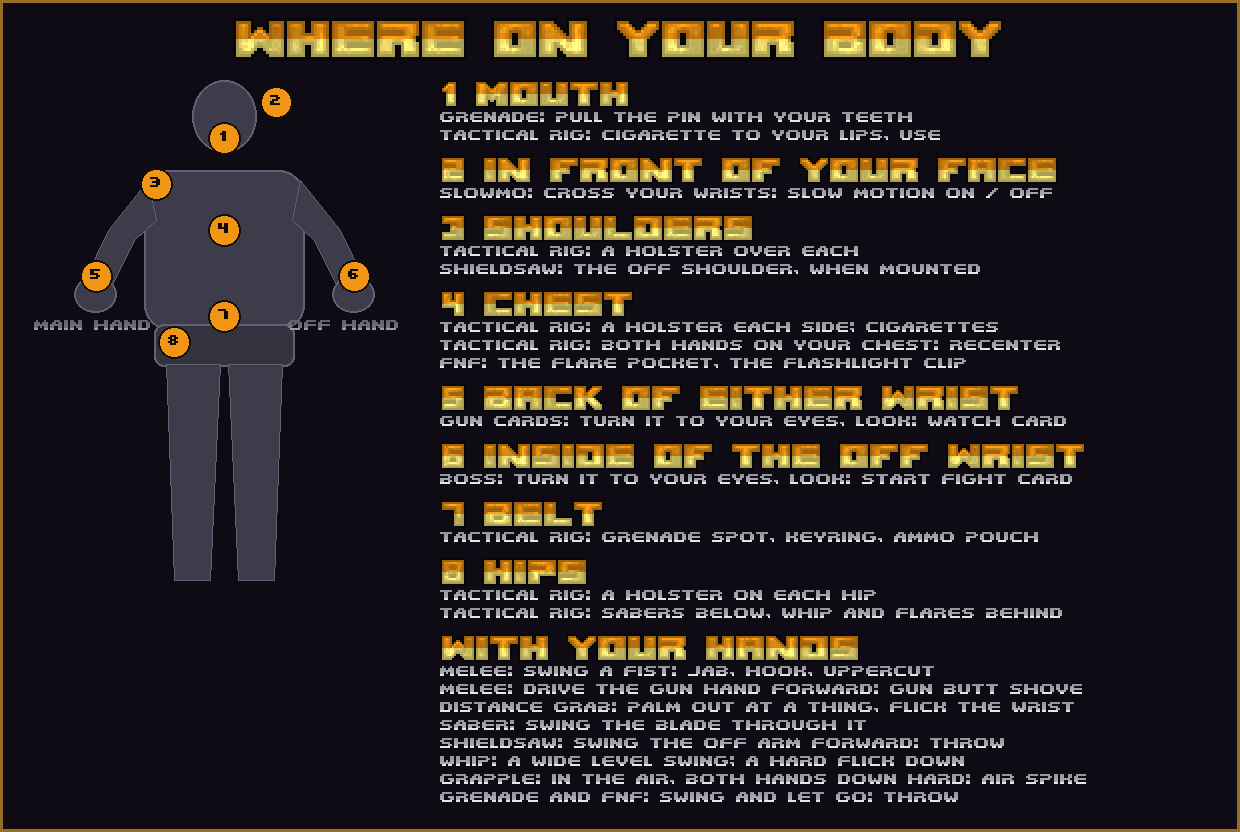
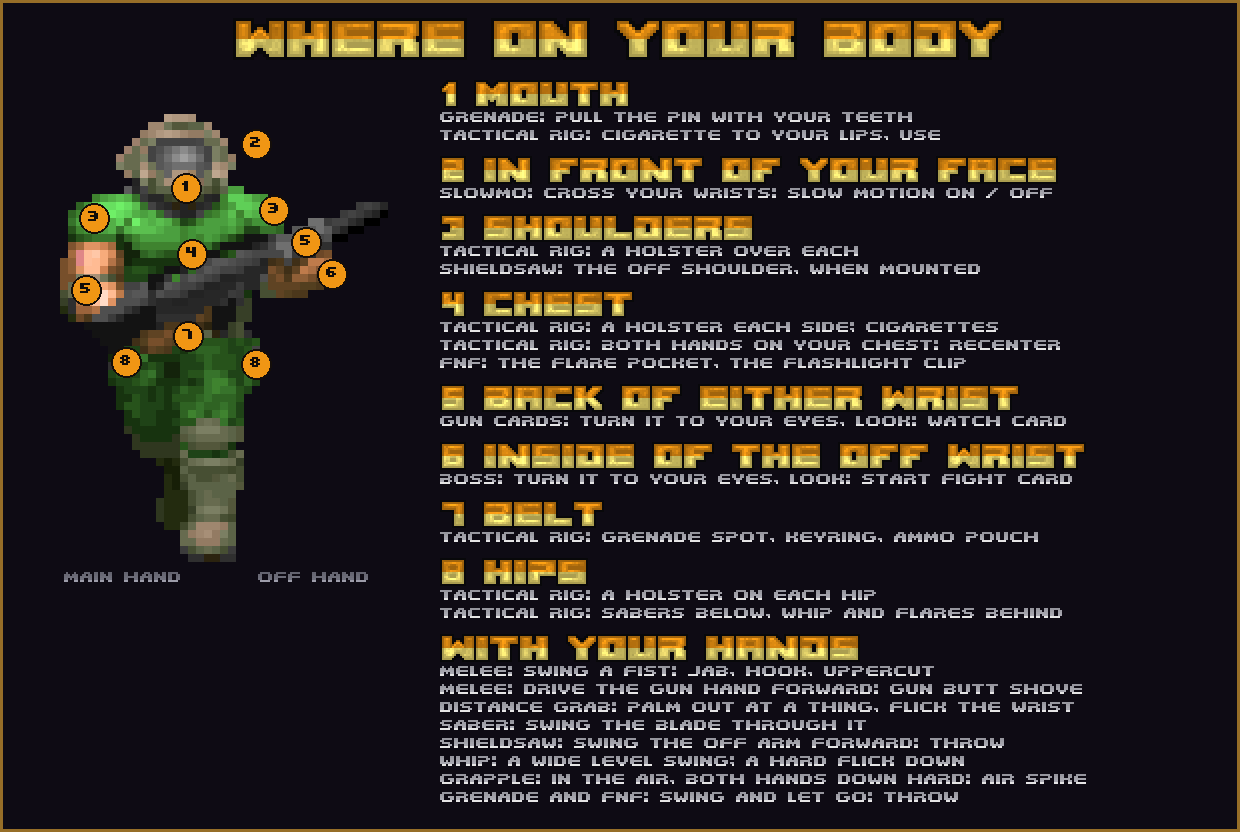
Main page: the body picture uses the Doom marine sprite (PLAYA1, as RSQ Wheel's holster screen), not a drawn figure (owner)
Claude-Session: https://claude.ai/code/session_01Me4ZUoe6wpgqJcGbSc3nSE

Changed region(s): [[0.0306, 0.0938, 0.3371, 0.7188]]

diff --git a/design/readme_art/make_keys_art.py b/design/readme_art/make_keys_art.py
@@ -111,35 +111,33 @@ for i in range(0,len(ub),2):
 im=im.crop((0,0,W,y+24)); d=ImageDraw.Draw(im); d.rectangle((0,0,W-1,im.height-1),outline=EDGE+(255,),width=3)
 im.convert('RGB').save(f'{OUT}/keys_buttons.png',optimize=True); print('keys_buttons',im.size)
 # ---------- keys_body.png ----------
-PLACES=[ # (number, where on the figure (x,y), place, lines)
- (1,(200,58),'MOUTH',['GRENADE: PULL THE PIN WITH YOUR TEETH','TACTICAL RIG: CIGARETTE TO YOUR LIPS, USE']),
- (2,(252,22),'IN FRONT OF YOUR FACE',['SLOWMO: CROSS YOUR WRISTS: SLOW MOTION ON / OFF']),
- (3,(132,104),'SHOULDERS',['TACTICAL RIG: A HOLSTER OVER EACH','SHIELDSAW: THE OFF SHOULDER, WHEN MOUNTED']),
- (4,(200,150),'CHEST',['TACTICAL RIG: A HOLSTER EACH SIDE; CIGARETTES',
+PLACES=[ # (number, the markers on the marine (x,y in the 8x sprite, offset below), place, lines)
+ (1,[(126,74)],'MOUTH',['GRENADE: PULL THE PIN WITH YOUR TEETH','TACTICAL RIG: CIGARETTE TO YOUR LIPS, USE']),
+ (2,[(196,30)],'IN FRONT OF YOUR FACE',['SLOWMO: CROSS YOUR WRISTS: SLOW MOTION ON / OFF']),
+ (3,[(34,104),(214,96)],'SHOULDERS',['TACTICAL RIG: A HOLSTER OVER EACH','SHIELDSAW: THE OFF SHOULDER, WHEN MOUNTED']),
+ (4,[(132,140)],'CHEST',['TACTICAL RIG: A HOLSTER EACH SIDE; CIGARETTES',
                        'TACTICAL RIG: BOTH HANDS ON YOUR CHEST: RECENTER','FNF: THE FLARE POCKET, THE FLASHLIGHT CLIP']),
- (5,(72,196),'BACK OF EITHER WRIST',['GUN CARDS: TURN IT TO YOUR EYES, LOOK: WATCH CARD']),
- (6,(330,196),'INSIDE OF THE OFF WRIST',['BOSS: TURN IT TO YOUR EYES, LOOK: START FIGHT CARD']),
- (7,(200,236),'BELT',['TACTICAL RIG: GRENADE SPOT, KEYRING, AMMO POUCH']),
- (8,(150,262),'HIPS',['TACTICAL RIG: A HOLSTER ON EACH HIP','TACTICAL RIG: SABERS BELOW, WHIP AND FLARES BEHIND']),
+ (5,[(26,176),(246,128)],'BACK OF EITHER WRIST',['GUN CARDS: TURN IT TO YOUR EYES, LOOK: WATCH CARD']),
+ (6,[(272,160)],'INSIDE OF THE OFF WRIST',['BOSS: TURN IT TO YOUR EYES, LOOK: START FIGHT CARD']),
+ (7,[(128,222)],'BELT',['TACTICAL RIG: GRENADE SPOT, KEYRING, AMMO POUCH']),
+ (8,[(66,248),(196,250)],'HIPS',['TACTICAL RIG: A HOLSTER ON EACH HIP','TACTICAL RIG: SABERS BELOW, WHIP AND FLARES BEHIND']),
 ]
 MOVES=['MELEE: SWING A FIST: JAB, HOOK, UPPERCUT','MELEE: DRIVE THE GUN HAND FORWARD: GUN BUTT SHOVE',
        'DISTANCE GRAB: PALM OUT AT A THING, FLICK THE WRIST','SABER: SWING THE BLADE THROUGH IT',
        'SHIELDSAW: SWING THE OFF ARM FORWARD: THROW','WHIP: A WIDE LEVEL SWING; A HARD FLICK DOWN',
        'GRAPPLE: IN THE AIR, BOTH HANDS DOWN HARD: AIR SPIKE','GRENADE AND FNF: SWING AND LET GO: THROW']
-FW,FH=400,520
+# THE FIGURE: the Doom marine sprite PLAYA1 (Brutal Doom's, the one RSQ Wheel's holster screen draws), 8x, no drawn body
+# (owner 2026-11-27: "what is this ugly AI art when we have a Doom marine sprite in the rig or wheel")
+FW,FH=400,520; OX,OY=36,34
 fig=Image.new('RGBA',(FW,FH),(0,0,0,0)); d=ImageDraw.Draw(fig)
-sk=(62,60,74,255); ln=(100,96,116,255)
-d.ellipse((168,0,232,72),fill=sk,outline=ln,width=2)                                  # head
-d.rounded_rectangle((120,90,280,250),radius=26,fill=sk,outline=ln,width=2)            # torso
-d.rounded_rectangle((130,244,270,286),radius=10,fill=(52,50,62,255),outline=ln,width=2)  # belt / hips
-d.polygon([(124,100),(84,150),(60,200),(84,212),(110,160),(132,140)],fill=sk,outline=ln)  # main arm (viewer's left)
-d.polygon([(276,100),(316,150),(340,200),(316,212),(290,160),(268,140)],fill=sk,outline=ln)  # off arm
-d.ellipse((50,196,92,232),fill=sk,outline=ln,width=2); d.ellipse((308,196,350,232),fill=sk,outline=ln,width=2)  # hands
-d.polygon([(142,284),(196,284),(186,500),(150,500)],fill=sk,outline=ln); d.polygon([(204,284),(258,284),(250,500),(214,500)],fill=sk,outline=ln)
-lab=t('MAIN HAND',DIM); fig.alpha_composite(lab,(10,240)); lab=t('OFF HAND',DIM); fig.alpha_composite(lab,(FW-lab.width-10,240))
-for n,(x,y),_,_ in PLACES:
-    d.ellipse((x-16,y-16,x+16,y+16),fill=(240,150,20,255),outline=(20,14,10,255),width=2)
-    num=t(str(n),((20,14,10),(20,14,10))); fig.alpha_composite(num,(x-num.width//2+1,y-num.height//2))
+mar=Image.open(os.path.join(os.path.dirname(os.path.abspath(__file__)),'marine_PLAYA1.png')).convert('RGBA')
+mar=mar.resize((mar.width*8,mar.height*8),Image.NEAREST); fig.alpha_composite(mar,(OX,OY))
+lab=t('MAIN HAND',DIM); fig.alpha_composite(lab,(OX+4,OY+mar.height+10)); lab=t('OFF HAND',DIM); fig.alpha_composite(lab,(OX+mar.width-lab.width-4,OY+mar.height+10))
+for n,pts,_,_ in PLACES:
+    for (px,py) in pts:
+        x,y=OX+px,OY+py
+        d.ellipse((x-15,y-15,x+15,y+15),fill=(240,150,20,255),outline=(20,14,10,255),width=2)
+        num=t(str(n),((20,14,10),(20,14,10))); fig.alpha_composite(num,(x-num.width//2+1,y-num.height//2))
 rows=[]
 for n,_,place,lines in PLACES:
     rows.append(big(f'{n} {place}',COL['gold'],2))
